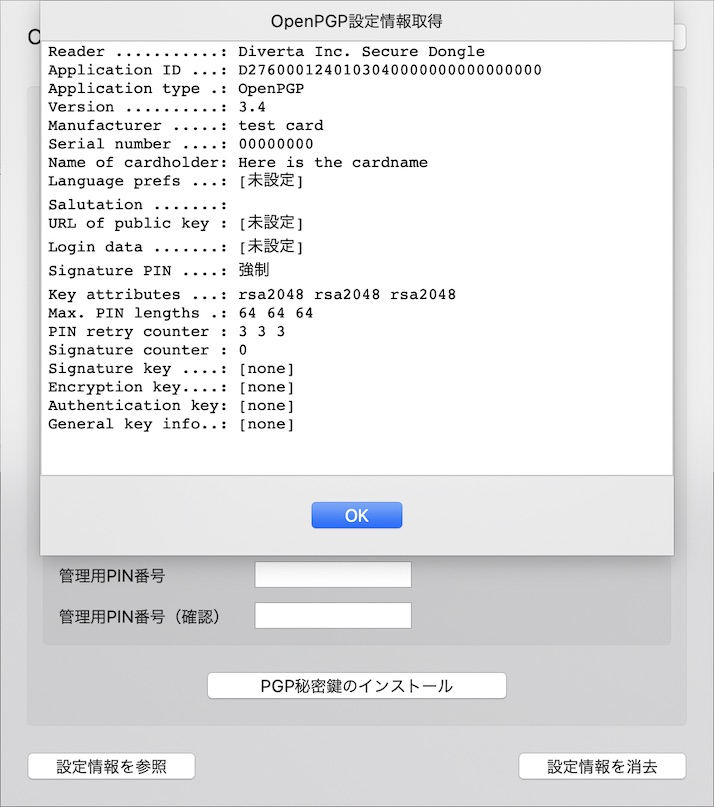
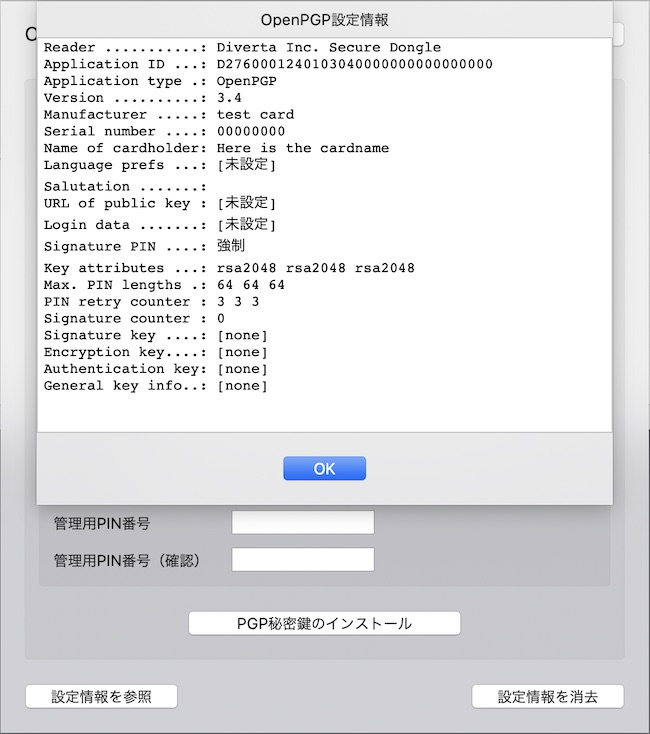
ドキュメントを更新
・画面コピーを差し替え

diff --git a/MaintenanceTool/macOSApp/PGPSETTING.md b/MaintenanceTool/macOSApp/PGPSETTING.md
@@ -128,12 +128,12 @@ PGP秘密鍵のインストール処理が実行されます。
 
 ### 確認手順
 
-インストールされた証明書は「OpenPGP設定情報取得画面」で確認できます。<br>
+インストールされた証明書は「OpenPGP設定情報画面」で確認できます。<br>
 OpenPGP機能設定画面の左下部のボタン「設定情報を参照」をクリックします。
 
 <img src="assets07/0014.jpg" width="350">
 
-下図のようなOpenPGP設定情報取得画面がポップアップ表示されます。<br>
+下図のようなOpenPGP設定情報画面がポップアップ表示されます。<br>
 以下の３点が設定されていることが確認できます。
 
 - 電子署名用（Signature key）の設定情報
@@ -172,7 +172,7 @@ OpenPGP機能設定情報の消去を実行するためには、OpenPGP機能設
 
 <img src="assets07/0019.jpg" width="350">
 
-OpenPGP設定情報取得画面で確認すると、下記３点の設定情報が消去されたことを示しています。
+OpenPGP設定情報画面で確認すると、下記３点の設定情報が消去されたことを示しています。
 
 - 電子署名用（Signature key）
 - 暗号／復号化用（Encryption key）

diff --git a/MaintenanceTool/macOSApp/PGPKEYINST.md b/MaintenanceTool/macOSApp/PGPKEYINST.md
@@ -120,12 +120,12 @@ PGP秘密鍵のインストール処理が実行されます。
 
 #### 確認手順
 
-インストールされた証明書は「OpenPGP設定情報取得画面」で確認できます。<br>
+インストールされた証明書は「OpenPGP設定情報画面」で確認できます。<br>
 OpenPGP設定画面の左下部のボタン「設定情報を参照」をクリックします。
 
 <img src="assets07/0014.jpg" width="400">
 
-下図のようなOpenPGP設定情報取得画面がポップアップ表示されます。<br>
+下図のようなOpenPGP設定情報画面がポップアップ表示されます。<br>
 以下の３点が設定されていることが確認できます。
 
 - 電子署名用（Signature key）の設定情報
